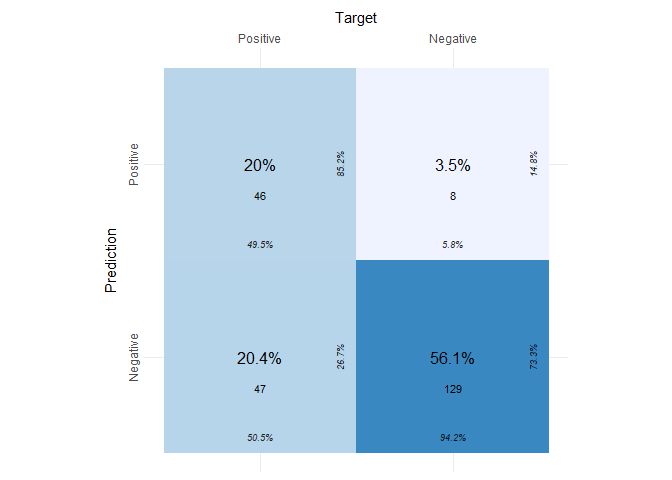
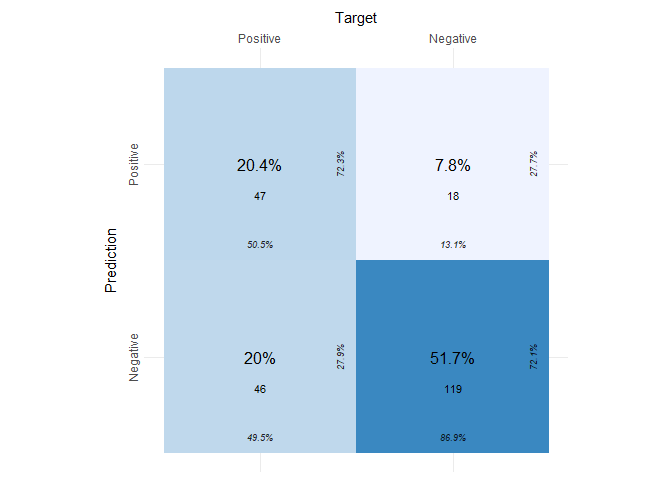
update

diff --git a/assignment-knn-diy.md b/assignment-knn-diy.md
@@ -217,11 +217,11 @@ ggplot(plot, aes(x = k, y = error_rate )) +
 
 ![](assignment-knn-diy_files/figure-markdown_github/unnamed-chunk-12-1.png)
 
-As shown in the graph, k = 11 will return the lowest error rate. 11 will
+As shown in the graph, k = 10 will return the lowest error rate. 10 will
 be used as the amount of nearest neighbours `k` in `knn` function below.
 
 ``` r
-cleanDF_test_pred <- knn(train = as.matrix(train_feat), test = as.matrix(test_feat), cl = as.matrix(train_labels), k = 11)
+cleanDF_test_pred <- knn(train = as.matrix(train_feat), test = as.matrix(test_feat), cl = as.matrix(train_labels), k = 10)
 cleanDF_test_pred <- relevel(cleanDF_test_pred, "Positive")
 head(cleanDF_test_pred)
 ```
@@ -240,28 +240,28 @@ cf
     ## 
     ##           True
     ## Prediction Positive Negative
-    ##   Positive       46        8
-    ##   Negative       47      129
-    ##                                           
-    ##                Accuracy : 0.7609          
-    ##                  95% CI : (0.7004, 0.8145)
-    ##     No Information Rate : 0.5957          
-    ##     P-Value [Acc > NIR] : 9.804e-08       
-    ##                                           
-    ##                   Kappa : 0.4677          
-    ##                                           
-    ##  Mcnemar's Test P-Value : 2.992e-07       
-    ##                                           
-    ##             Sensitivity : 0.4946          
-    ##             Specificity : 0.9416          
-    ##          Pos Pred Value : 0.8519          
-    ##          Neg Pred Value : 0.7330          
-    ##              Prevalence : 0.4043          
-    ##          Detection Rate : 0.2000          
-    ##    Detection Prevalence : 0.2348          
-    ##       Balanced Accuracy : 0.7181          
-    ##                                           
-    ##        'Positive' Class : Positive        
+    ##   Positive       47       18
+    ##   Negative       46      119
+    ##                                          
+    ##                Accuracy : 0.7217         
+    ##                  95% CI : (0.659, 0.7786)
+    ##     No Information Rate : 0.5957         
+    ##     P-Value [Acc > NIR] : 4.575e-05      
+    ##                                          
+    ##                   Kappa : 0.393          
+    ##                                          
+    ##  Mcnemar's Test P-Value : 0.0007382      
+    ##                                          
+    ##             Sensitivity : 0.5054         
+    ##             Specificity : 0.8686         
+    ##          Pos Pred Value : 0.7231         
+    ##          Neg Pred Value : 0.7212         
+    ##              Prevalence : 0.4043         
+    ##          Detection Rate : 0.2043         
+    ##    Detection Prevalence : 0.2826         
+    ##       Balanced Accuracy : 0.6870         
+    ##                                          
+    ##        'Positive' Class : Positive       
     ## 
 
 To visualize the confusion matrix, I will use `plot_confusion_matrix`
